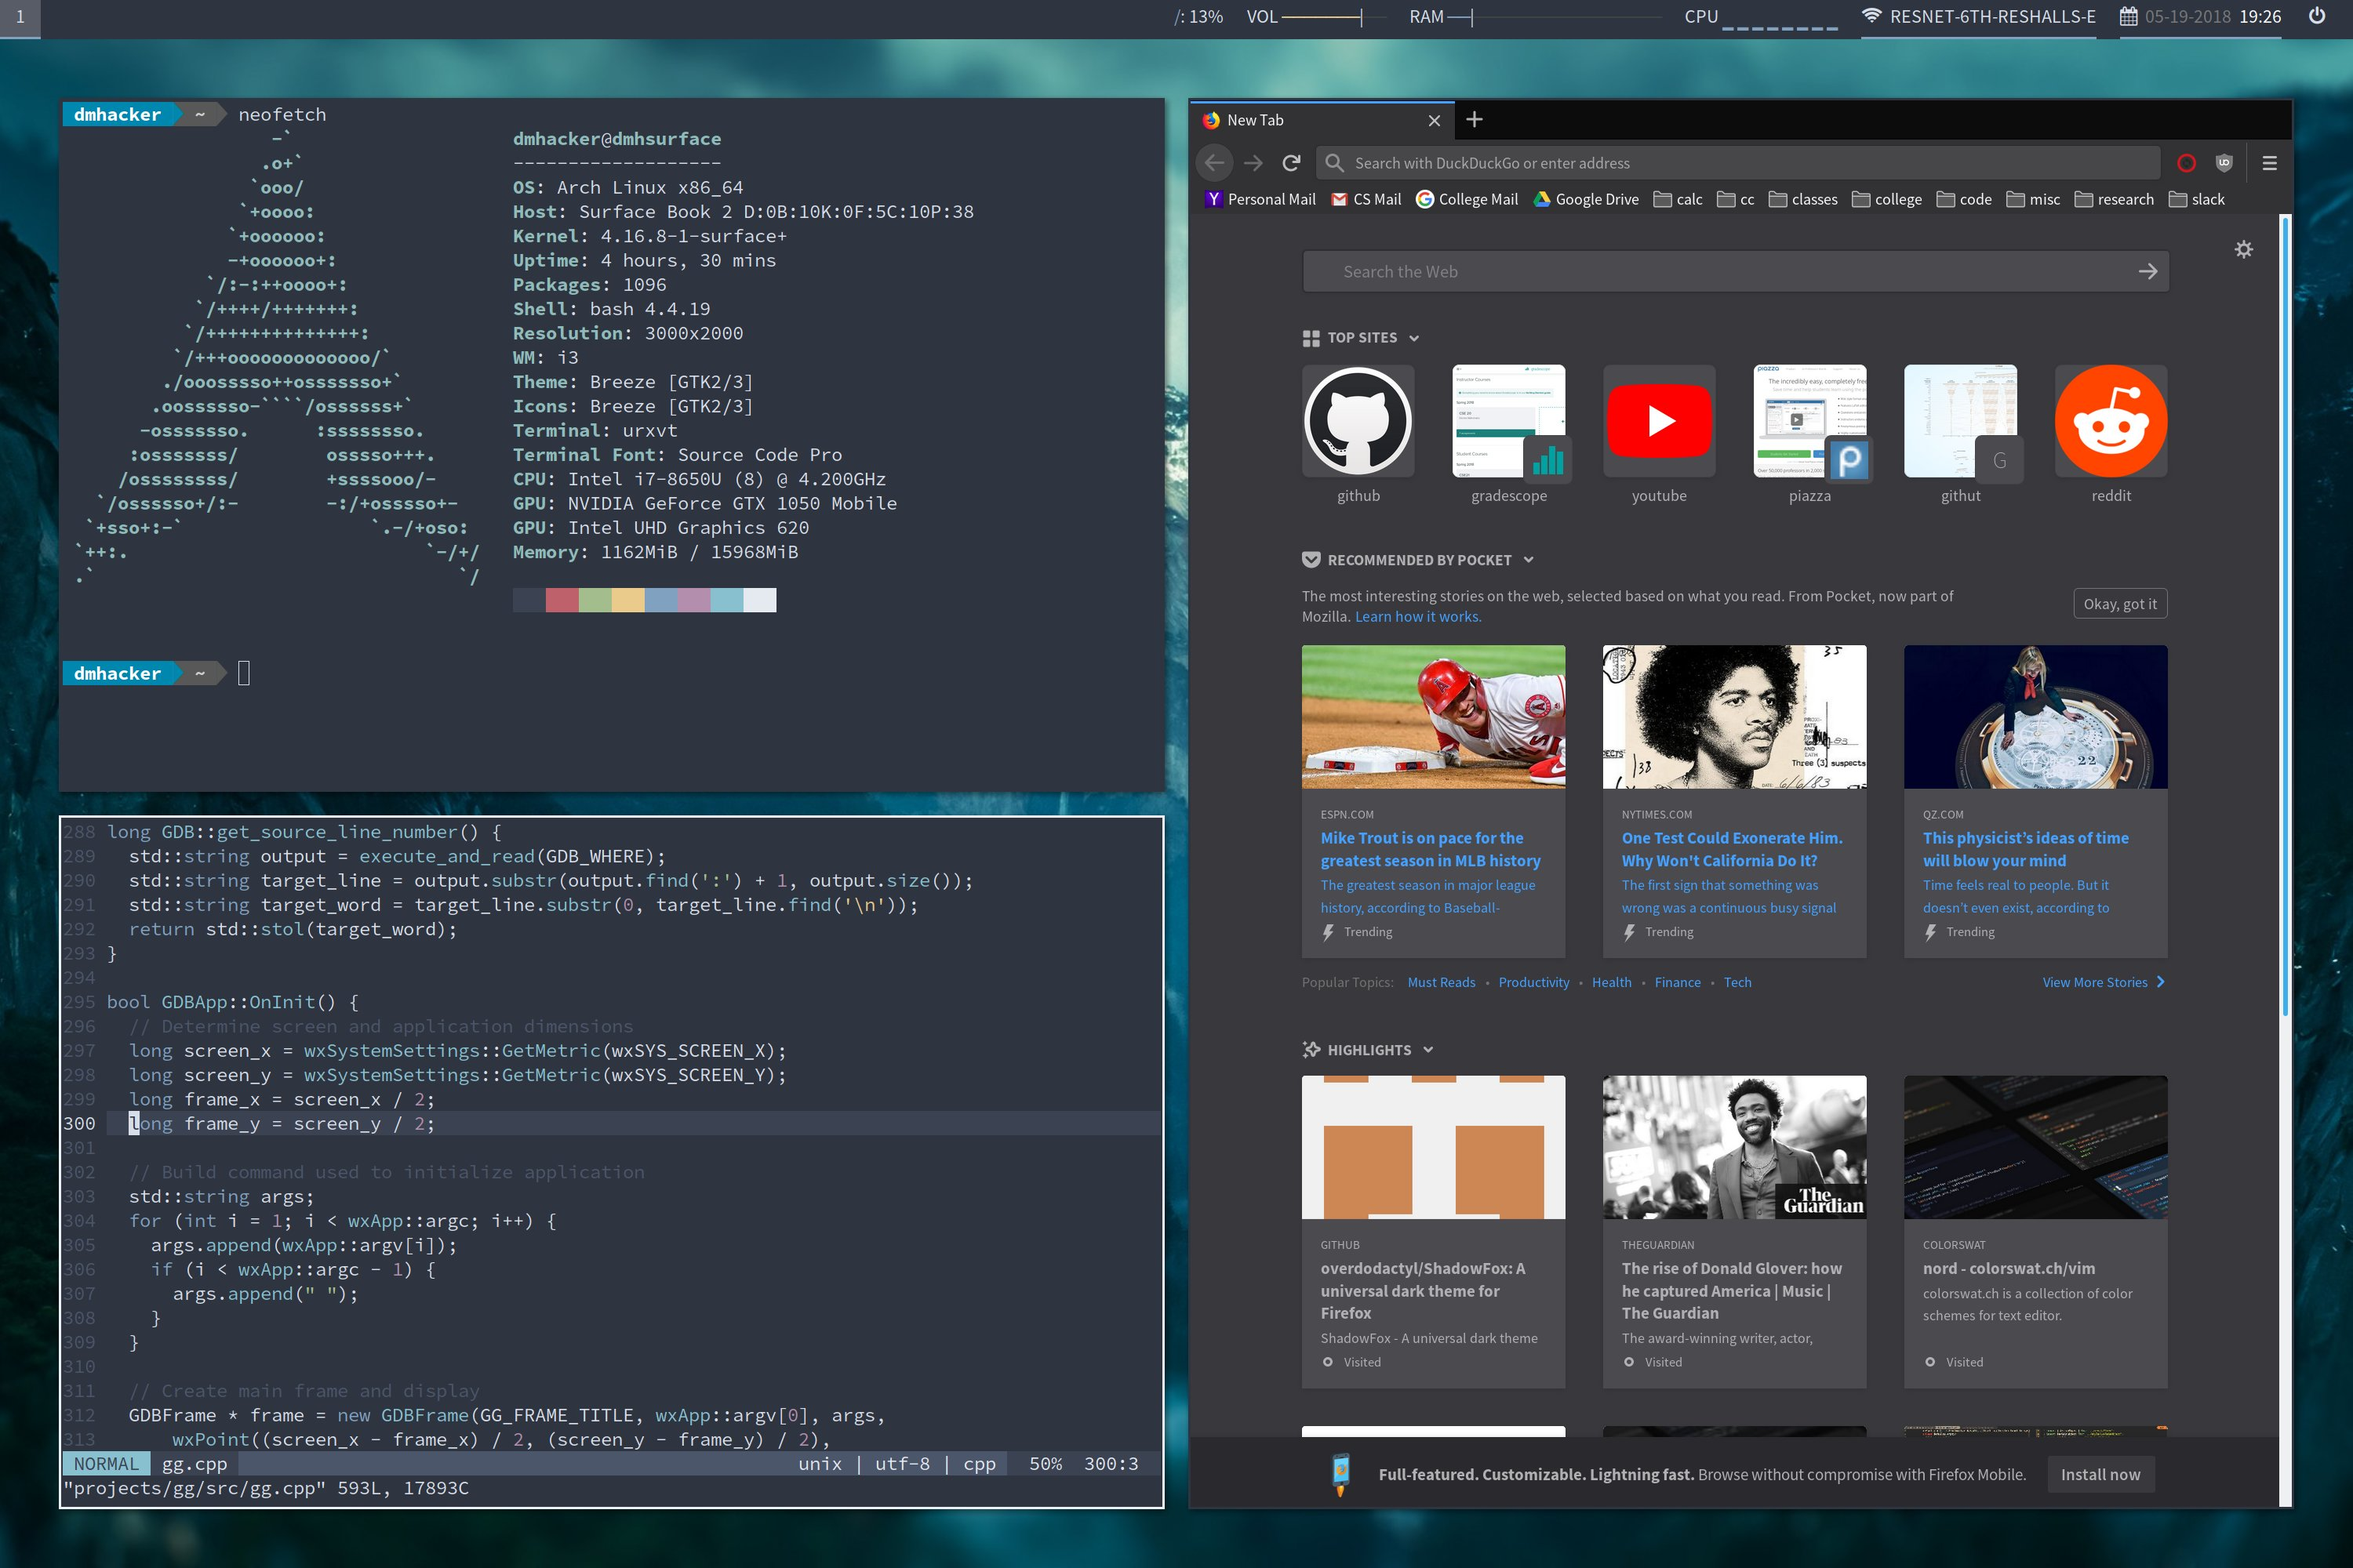
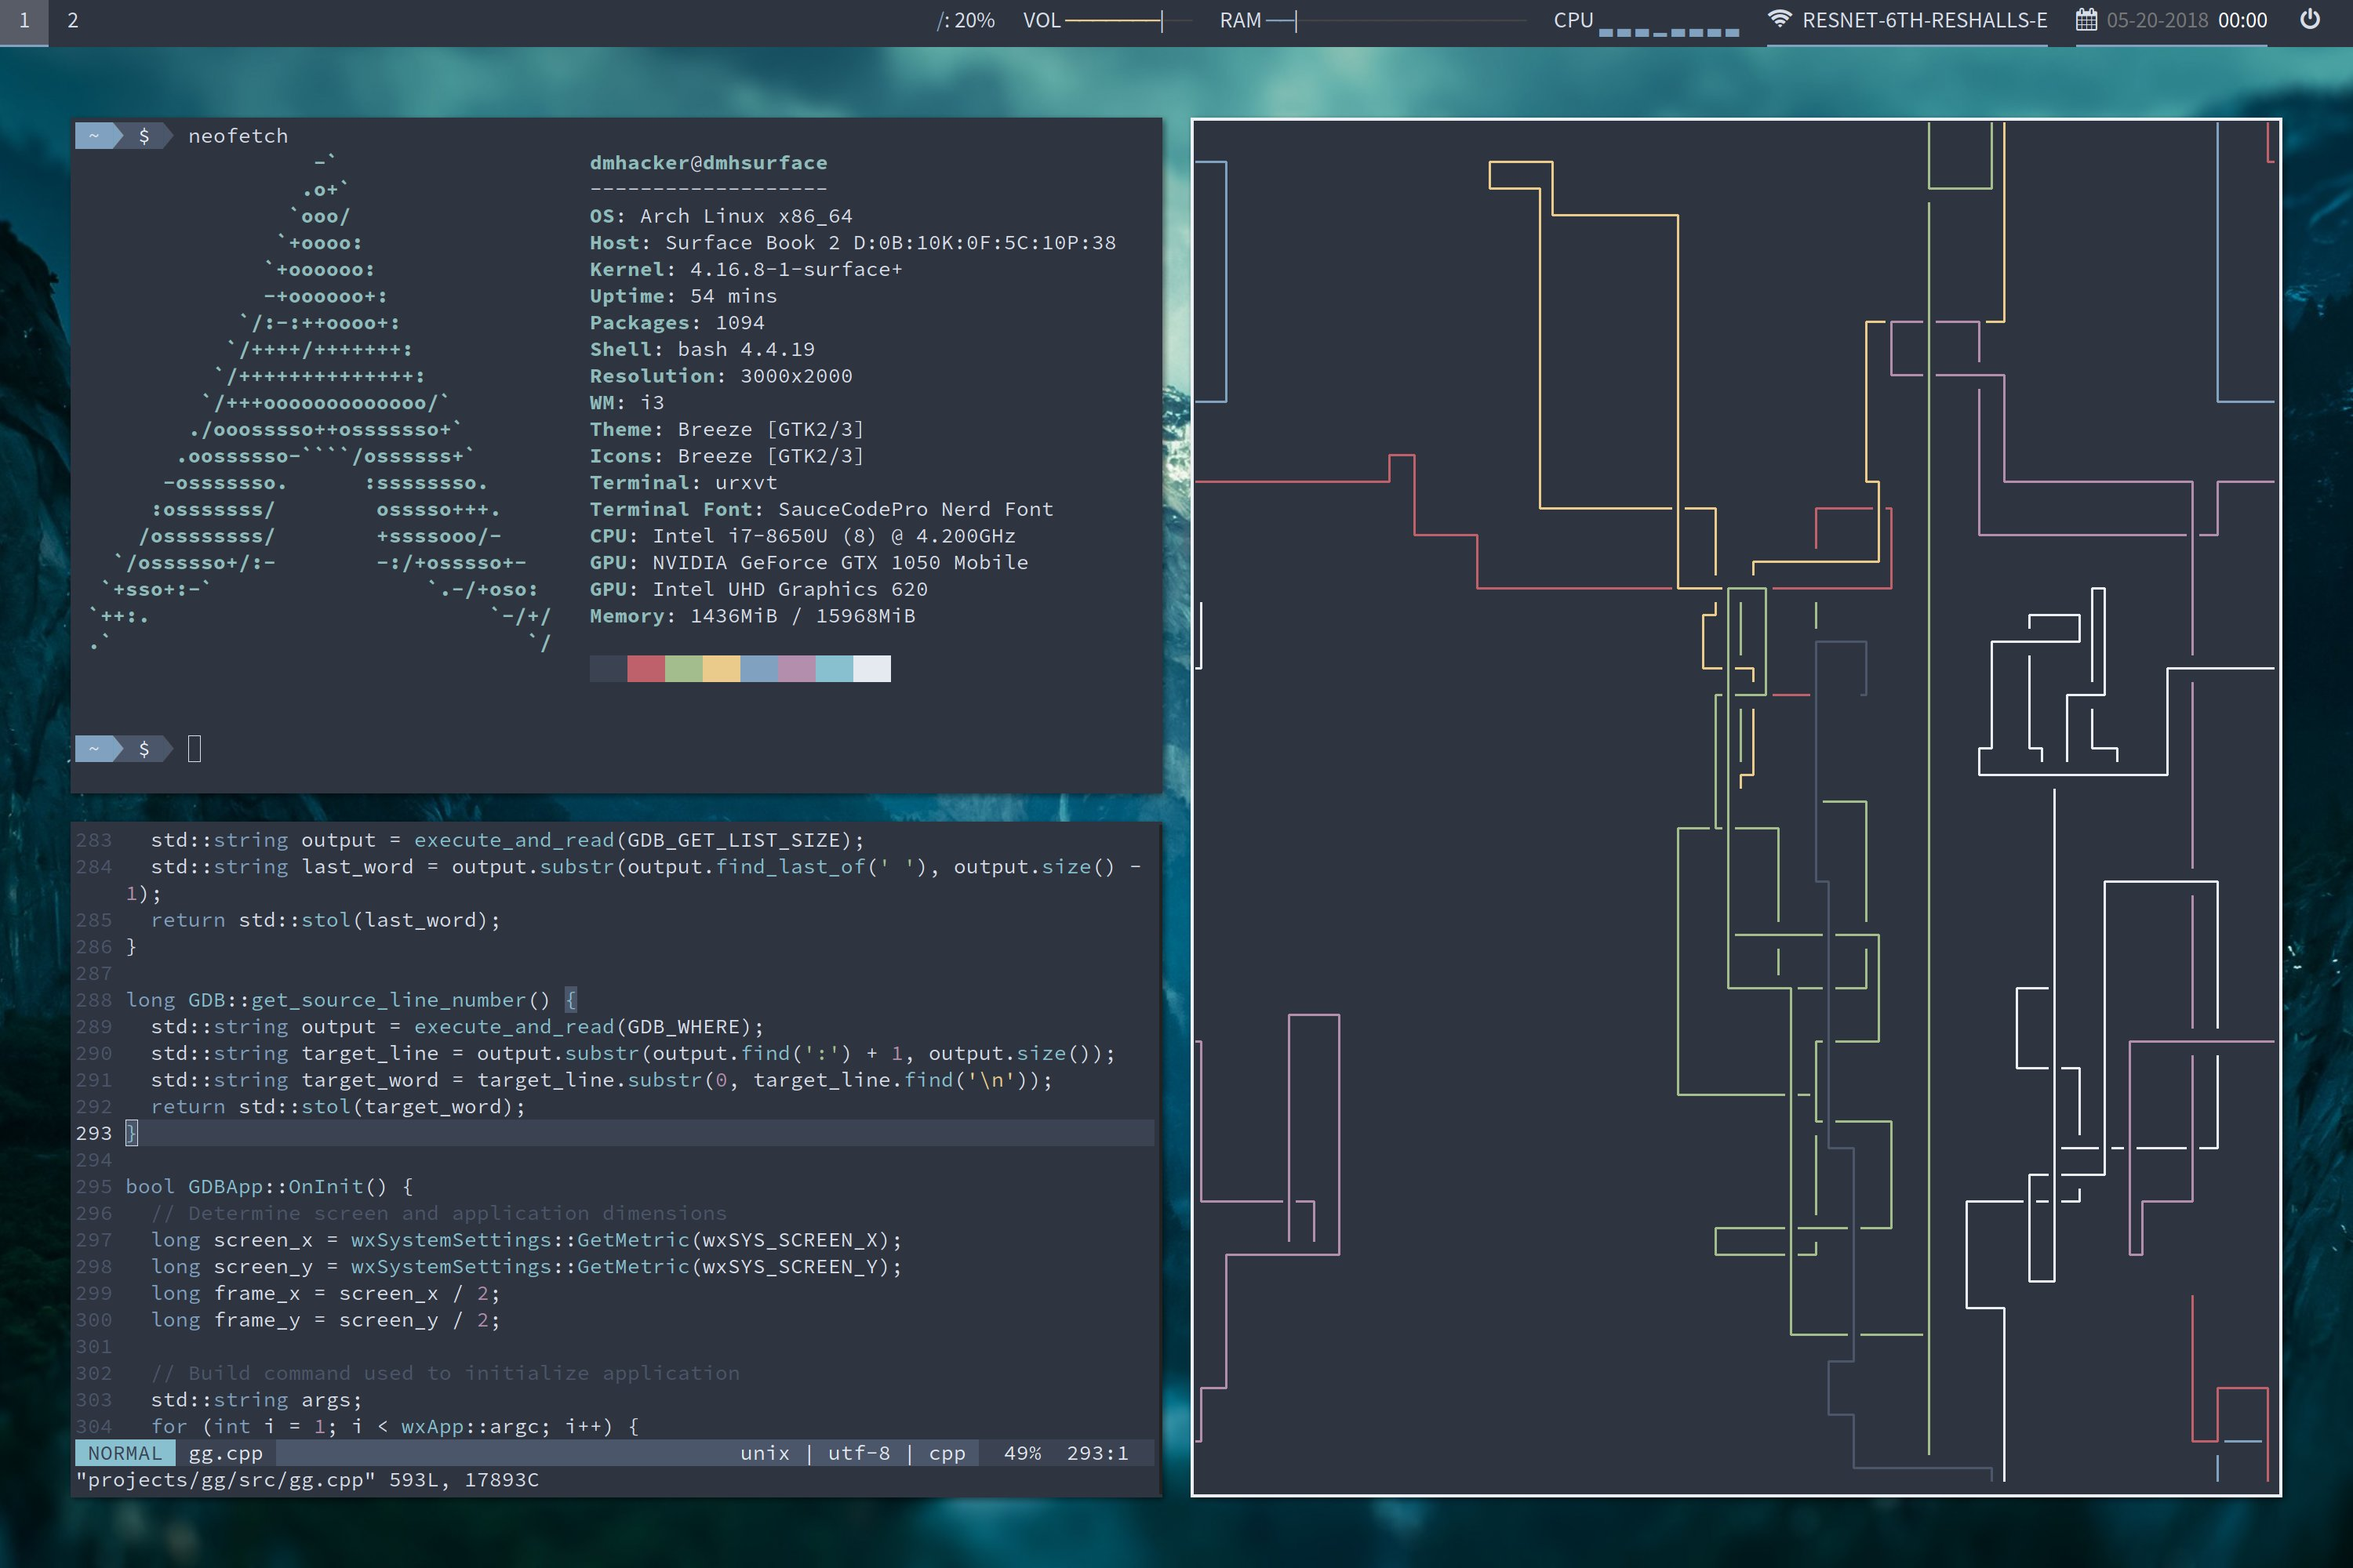
Update picture to show new powerline & scale; remove powerline-fonts package from README

Changed region(s): [[0.0, 0.062, 0.992, 0.992], [0.0, 0.0, 1.0, 0.031]]

diff --git a/README.md b/README.md
@@ -27,7 +27,7 @@ aesthetic (e.g. Source Sans Pro). See above.
 * urxvt-perls-git [clipboard and vim key bindings for the terminal]
 * urxvt-resize-font-git [key bindings for resizing fonts]
 * powerline-shell [fancy terminal prompt]
-* powerline-fonts [patched fonts for powerline]
+* nerd-fonts-complete [patched fonts for powerline]
 * adobe-source-sans-pro-fonts [UI font for i3, SDDM, KDE, polybar]
 * adobe-source-code-pro-fonts [terminal font with powerline symbols]
 * adobe-source-serif-pro-fonts [completes the Adobe font suite]
